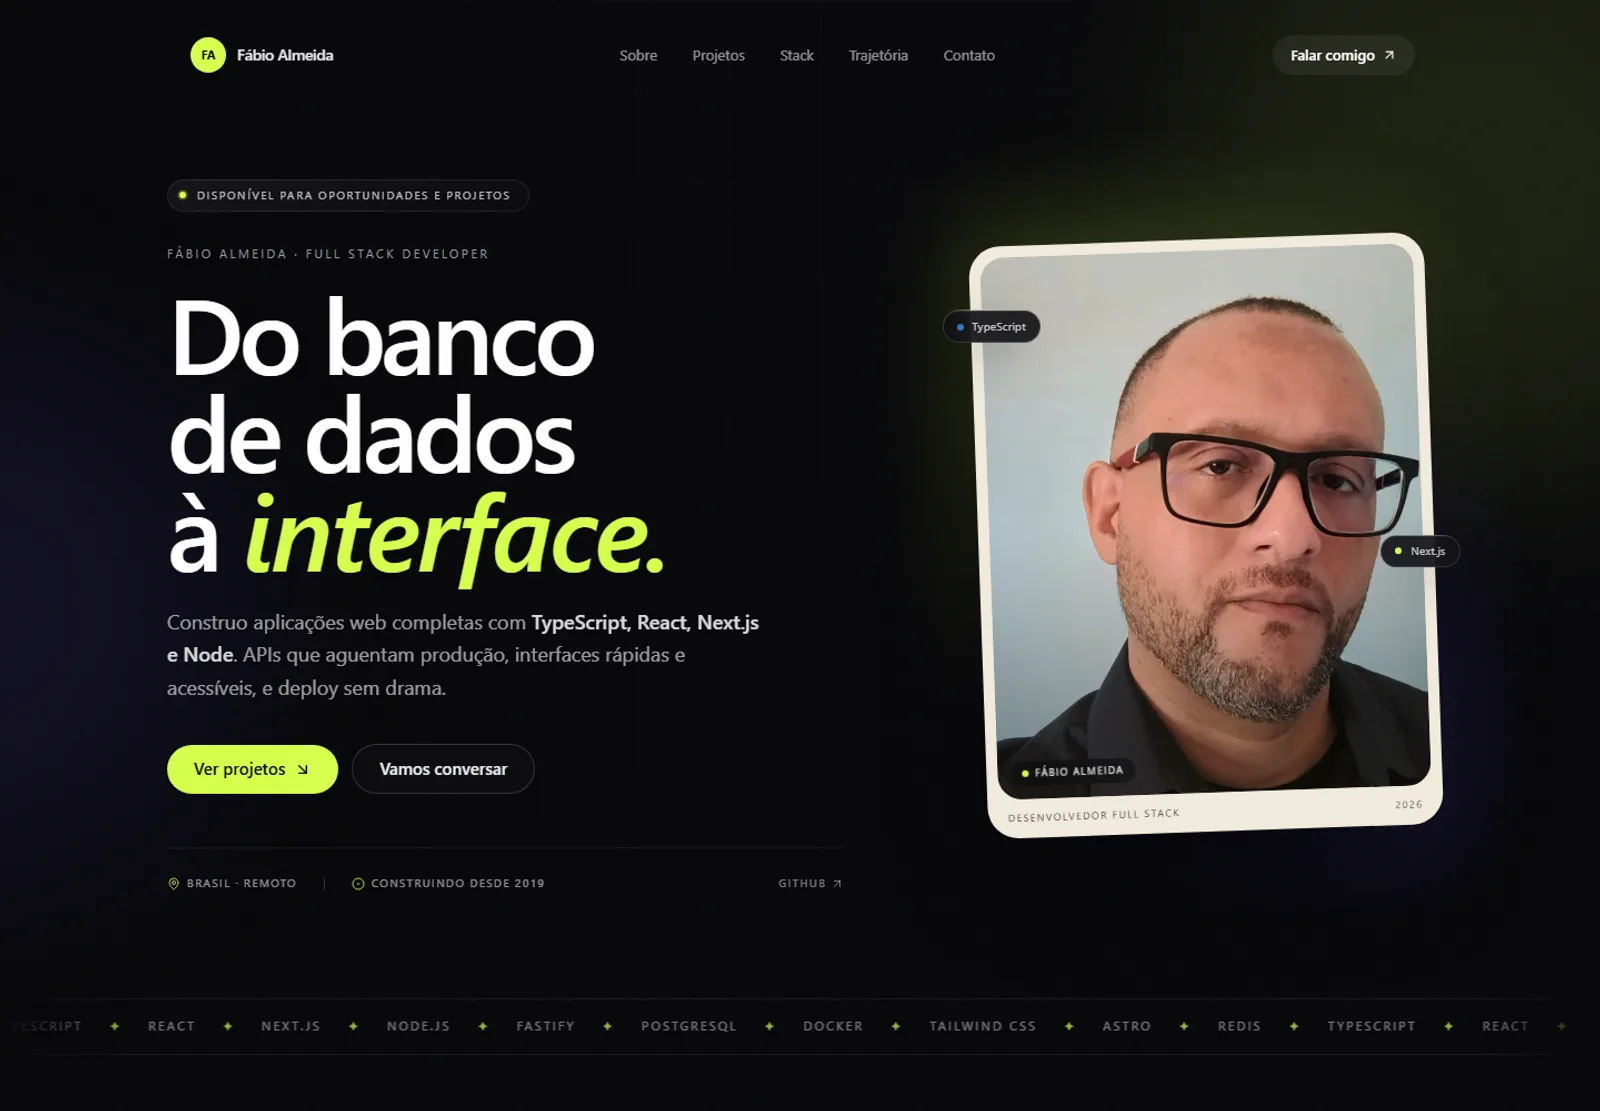
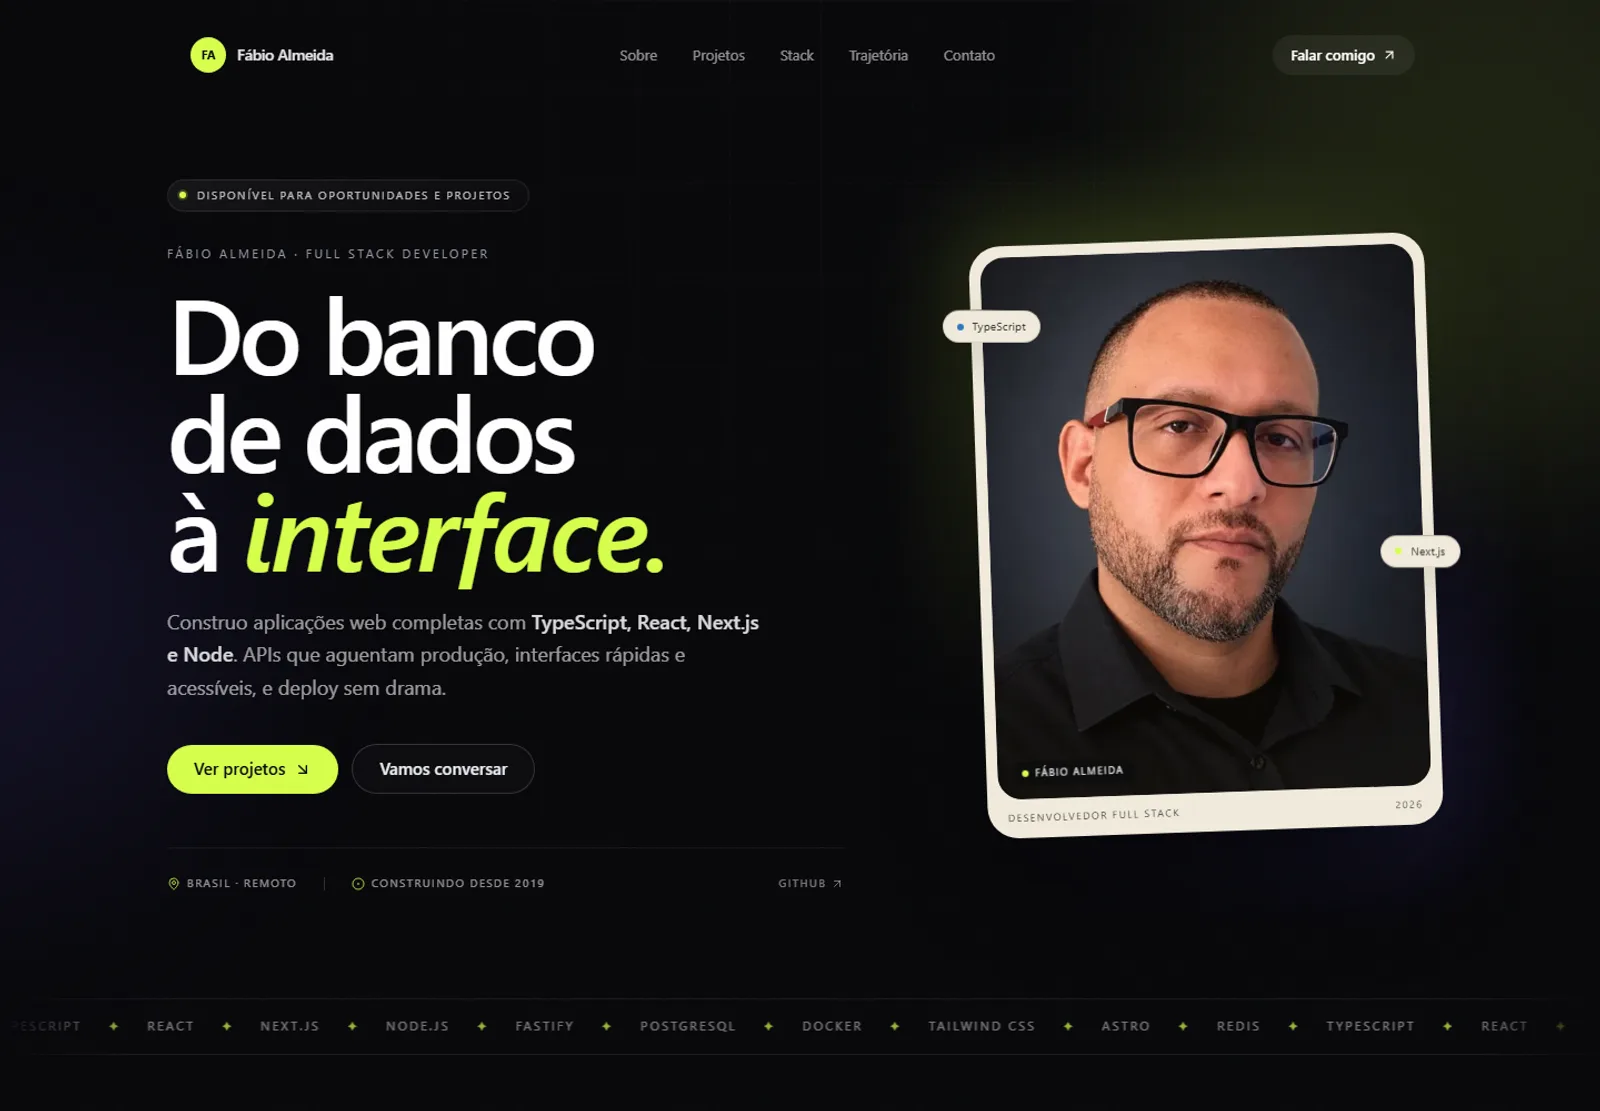
content: atualiza foto de perfil para retrato de estudio

diff --git a/src/components/hero.tsx b/src/components/hero.tsx
@@ -146,17 +146,17 @@ function Portrait() {
         </div>
       </div>
 
-      <div className="animate-float absolute -left-4 top-16 hidden items-center gap-2 rounded-full border border-white/15 bg-[#0d0d12]/90 px-3 py-1.5 shadow-[0_12px_40px_-12px_rgba(0,0,0,0.9)] backdrop-blur-md sm:flex lg:-left-8">
+      <div className="animate-float absolute -left-4 top-16 hidden items-center gap-2 rounded-full border border-ink/10 bg-cream px-3 py-1.5 shadow-[0_12px_40px_-12px_rgba(0,0,0,0.9)] backdrop-blur-md sm:flex lg:-left-8">
         <span className="size-1.5 rounded-full bg-[#3178c6]" />
-        <span className="font-mono text-[10px] tracking-wide text-white/75">TypeScript</span>
+        <span className="font-mono text-[10px] tracking-wide text-ink/80">TypeScript</span>
       </div>
 
       <div
-        className="animate-float absolute -right-3 top-1/2 hidden items-center gap-2 rounded-full border border-white/15 bg-[#0d0d12]/90 px-3 py-1.5 shadow-[0_12px_40px_-12px_rgba(0,0,0,0.9)] backdrop-blur-md sm:flex lg:-right-6"
+        className="animate-float absolute -right-3 top-1/2 hidden items-center gap-2 rounded-full border border-ink/10 bg-cream px-3 py-1.5 shadow-[0_12px_40px_-12px_rgba(0,0,0,0.9)] backdrop-blur-md sm:flex lg:-right-6"
         style={{ animationDelay: "1.4s" }}
       >
         <span className="size-1.5 rounded-full bg-accent" />
-        <span className="font-mono text-[10px] tracking-wide text-white/75">Next.js</span>
+        <span className="font-mono text-[10px] tracking-wide text-ink/80">Next.js</span>
       </div>
 
 

diff --git a/src/data/site.ts b/src/data/site.ts
@@ -10,7 +10,7 @@ export const site = {
   whatsapp: "https://wa.me/5598987534423",
   linkedin: "https://www.linkedin.com/in/almeidafabioo/",
   github: "https://github.com/AlmeidaFabio",
-  avatar: "/perfil-2026.webp",
+  avatar: "/perfil-2026-studio.webp",
   availability: "Disponível para oportunidades e projetos",
 } as const;
 

diff --git a/README.md b/README.md
@@ -82,7 +82,7 @@ Sem `image`, o card usa uma capa tipográfica gerada por CSS. Basta colocar a im
 
 ### Trocar a foto
 
-Substitua `public/perfil-2026.webp`. O retrato aparece em um cartão claro inclinado no hero — funciona melhor com fundo neutro e enquadramento do busto para cima.
+Substitua `public/perfil-2026-studio.webp`. O retrato aparece em um cartão claro inclinado no hero — funciona melhor com fundo neutro e enquadramento do busto para cima.
 
 ### Cores e tipografia
 
@@ -124,7 +124,7 @@ src/
   data/
     site.ts             todo o conteúdo editável
 public/
-  perfil-2026.webp
+  perfil-2026-studio.webp
   projects/             prévias dos projetos (WebP)
 ```
 
